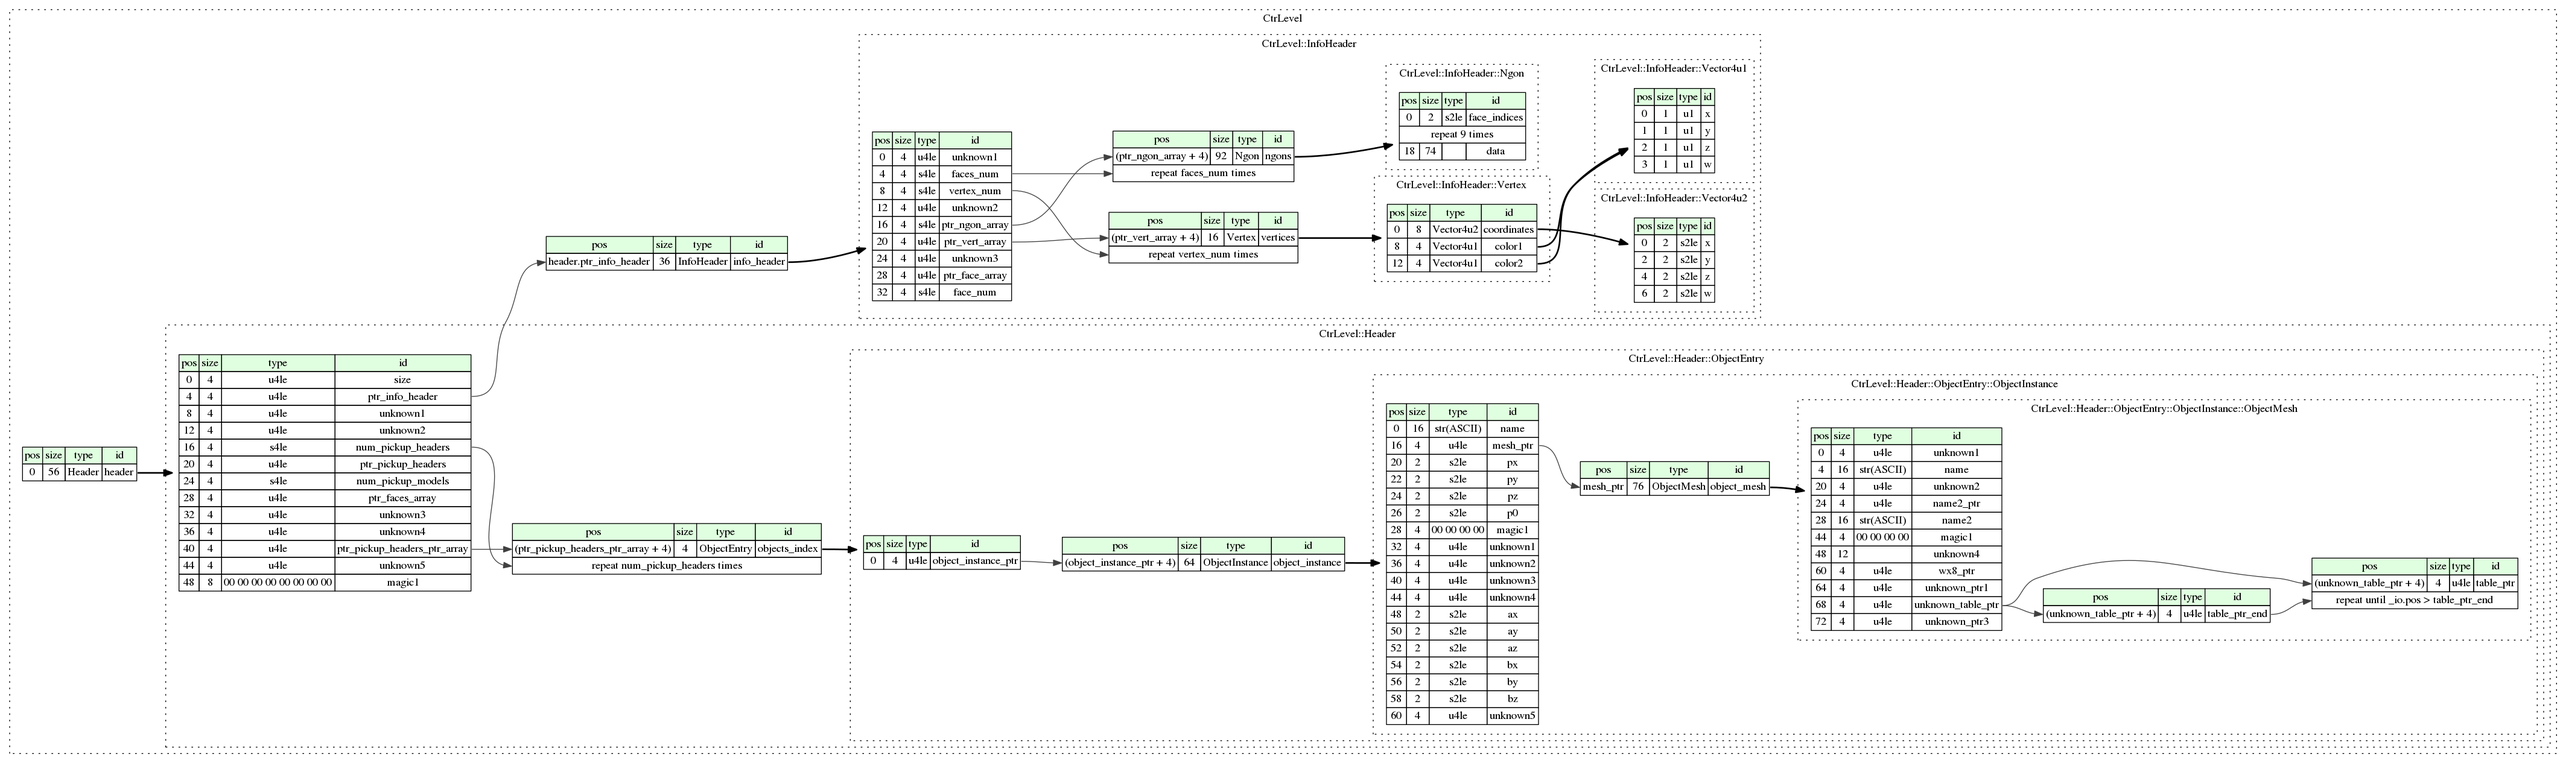
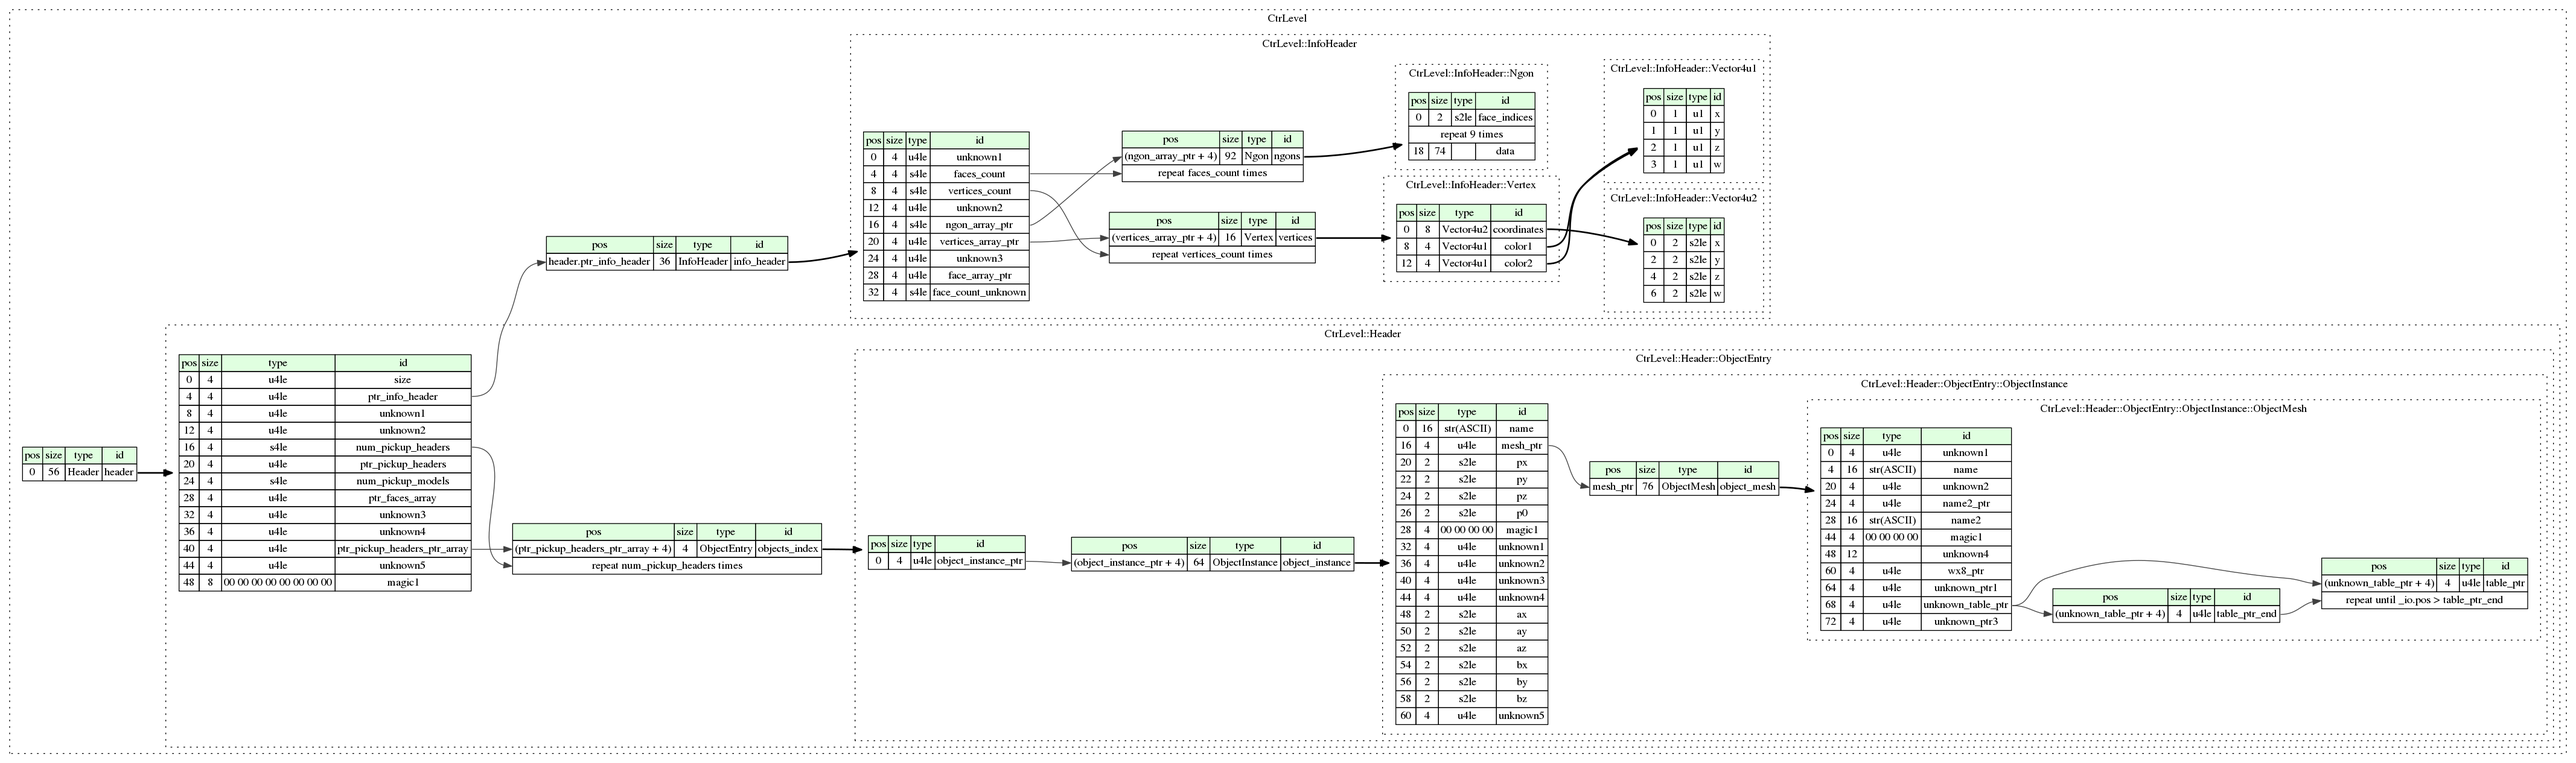
some renaming

diff --git a/csharp/ctr/CtrLevel.cs b/csharp/ctr/CtrLevel.cs
@@ -371,14 +371,14 @@ namespace ctr
             private void _read()
             {
                 _unknown1 = m_io.ReadU4le();
-                _facesNum = m_io.ReadS4le();
-                _vertexNum = m_io.ReadS4le();
+                _facesCount = m_io.ReadS4le();
+                _verticesCount = m_io.ReadS4le();
                 _unknown2 = m_io.ReadU4le();
-                _ptrNgonArray = m_io.ReadS4le();
-                _ptrVertArray = m_io.ReadU4le();
+                _ngonArrayPtr = m_io.ReadS4le();
+                _verticesArrayPtr = m_io.ReadU4le();
                 _unknown3 = m_io.ReadU4le();
-                _ptrFaceArray = m_io.ReadU4le();
-                _faceNum = m_io.ReadS4le();
+                _faceArrayPtr = m_io.ReadU4le();
+                _faceCountUnknown = m_io.ReadS4le();
             }
             public partial class Vertex : KaitaiStruct
             {
@@ -516,9 +516,9 @@ namespace ctr
                     if (f_vertices)
                         return _vertices;
                     long _pos = m_io.Pos;
-                    m_io.Seek((PtrVertArray + 4));
-                    _vertices = new List<Vertex>((int) (VertexNum));
-                    for (var i = 0; i < VertexNum; i++)
+                    m_io.Seek((VerticesArrayPtr + 4));
+                    _vertices = new List<Vertex>((int) (VerticesCount));
+                    for (var i = 0; i < VerticesCount; i++)
                     {
                         _vertices.Add(new Vertex(m_io, this, m_root));
                     }
@@ -536,9 +536,9 @@ namespace ctr
                     if (f_ngons)
                         return _ngons;
                     long _pos = m_io.Pos;
-                    m_io.Seek((PtrNgonArray + 4));
-                    _ngons = new List<Ngon>((int) (FacesNum));
-                    for (var i = 0; i < FacesNum; i++)
+                    m_io.Seek((NgonArrayPtr + 4));
+                    _ngons = new List<Ngon>((int) (FacesCount));
+                    for (var i = 0; i < FacesCount; i++)
                     {
                         _ngons.Add(new Ngon(m_io, this, m_root));
                     }
@@ -548,25 +548,25 @@ namespace ctr
                 }
             }
             private uint _unknown1;
-            private int _facesNum;
-            private int _vertexNum;
+            private int _facesCount;
+            private int _verticesCount;
             private uint _unknown2;
-            private int _ptrNgonArray;
-            private uint _ptrVertArray;
+            private int _ngonArrayPtr;
+            private uint _verticesArrayPtr;
             private uint _unknown3;
-            private uint _ptrFaceArray;
-            private int _faceNum;
+            private uint _faceArrayPtr;
+            private int _faceCountUnknown;
             private CtrLevel m_root;
             private CtrLevel m_parent;
             public uint Unknown1 { get { return _unknown1; } }
-            public int FacesNum { get { return _facesNum; } }
-            public int VertexNum { get { return _vertexNum; } }
+            public int FacesCount { get { return _facesCount; } }
+            public int VerticesCount { get { return _verticesCount; } }
             public uint Unknown2 { get { return _unknown2; } }
-            public int PtrNgonArray { get { return _ptrNgonArray; } }
-            public uint PtrVertArray { get { return _ptrVertArray; } }
+            public int NgonArrayPtr { get { return _ngonArrayPtr; } }
+            public uint VerticesArrayPtr { get { return _verticesArrayPtr; } }
             public uint Unknown3 { get { return _unknown3; } }
-            public uint PtrFaceArray { get { return _ptrFaceArray; } }
-            public int FaceNum { get { return _faceNum; } }
+            public uint FaceArrayPtr { get { return _faceArrayPtr; } }
+            public int FaceCountUnknown { get { return _faceCountUnknown; } }
             public CtrLevel M_Root { get { return m_root; } }
             public CtrLevel M_Parent { get { return m_parent; } }
         }

diff --git a/python/ctr/ctr_level.py b/python/ctr/ctr_level.py
@@ -181,14 +181,14 @@ class CtrLevel(KaitaiStruct):
 
         def _read(self):
             self.unknown1 = self._io.read_u4le()
-            self.faces_num = self._io.read_s4le()
-            self.vertex_num = self._io.read_s4le()
+            self.faces_count = self._io.read_s4le()
+            self.vertices_count = self._io.read_s4le()
             self.unknown2 = self._io.read_u4le()
-            self.ptr_ngon_array = self._io.read_s4le()
-            self.ptr_vert_array = self._io.read_u4le()
+            self.ngon_array_ptr = self._io.read_s4le()
+            self.vertices_array_ptr = self._io.read_u4le()
             self.unknown3 = self._io.read_u4le()
-            self.ptr_face_array = self._io.read_u4le()
-            self.face_num = self._io.read_s4le()
+            self.face_array_ptr = self._io.read_u4le()
+            self.face_count_unknown = self._io.read_s4le()
 
         class Vertex(KaitaiStruct):
             def __init__(self, _io, _parent=None, _root=None):
@@ -252,9 +252,9 @@ class CtrLevel(KaitaiStruct):
                 return self._m_vertices if hasattr(self, '_m_vertices') else None
 
             _pos = self._io.pos()
-            self._io.seek((self.ptr_vert_array + 4))
-            self._m_vertices = [None] * (self.vertex_num)
-            for i in range(self.vertex_num):
+            self._io.seek((self.vertices_array_ptr + 4))
+            self._m_vertices = [None] * (self.vertices_count)
+            for i in range(self.vertices_count):
                 self._m_vertices[i] = self._root.InfoHeader.Vertex(self._io, self, self._root)
 
             self._io.seek(_pos)
@@ -266,9 +266,9 @@ class CtrLevel(KaitaiStruct):
                 return self._m_ngons if hasattr(self, '_m_ngons') else None
 
             _pos = self._io.pos()
-            self._io.seek((self.ptr_ngon_array + 4))
-            self._m_ngons = [None] * (self.faces_num)
-            for i in range(self.faces_num):
+            self._io.seek((self.ngon_array_ptr + 4))
+            self._m_ngons = [None] * (self.faces_count)
+            for i in range(self.faces_count):
                 self._m_ngons[i] = self._root.InfoHeader.Ngon(self._io, self, self._root)
 
             self._io.seek(_pos)
